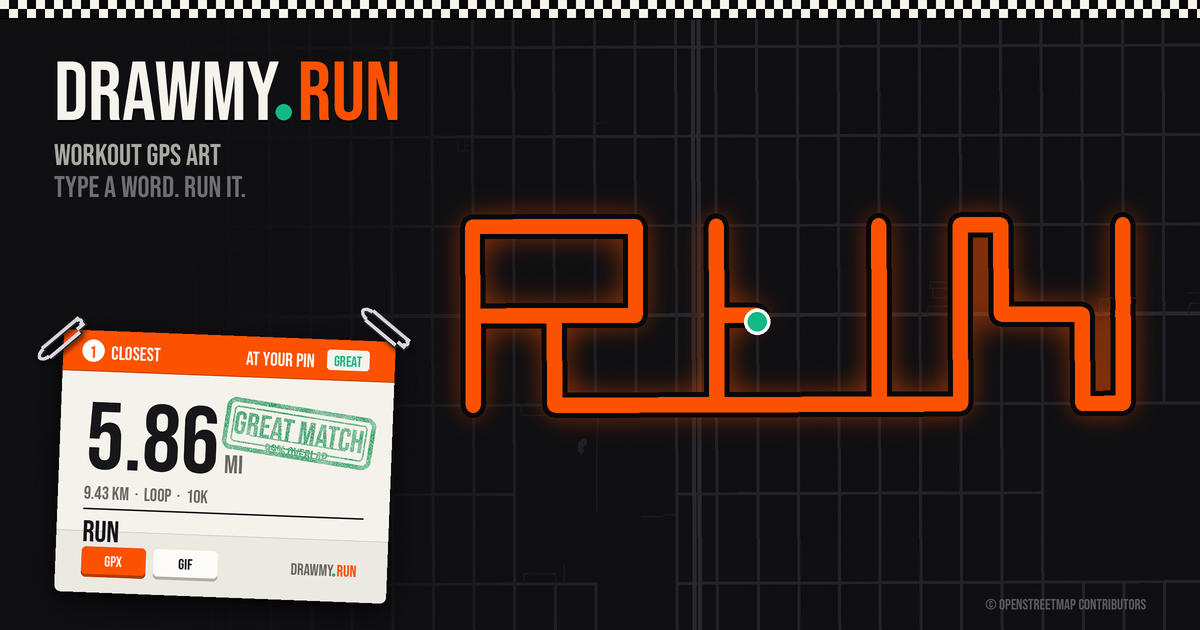
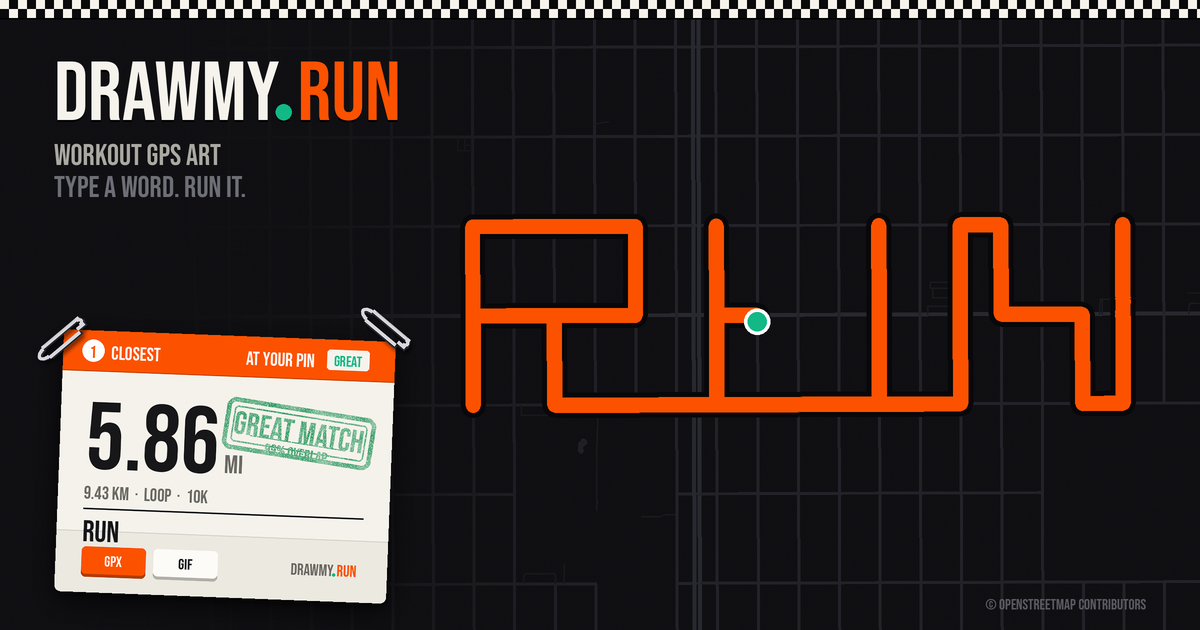
The route lies flat: no shadow under the line on the map, in GIFs or on the card
A soft dark shadow was drawn under the route, offset a little downward and
blurred, on the day map faintly and on the night and satellite maps more
strongly. It showed as dark smudges under the letters. The layer is gone,
along with its scaling for the thicker GIF line and its hand in the fade,
so the exported GIFs, which draw with the same layers, lose it too. The
casing stays: white by day, near black at night and on satellite imagery,
an outline rather than a shadow.

The social card's route sat in a blurred orange glow of the same kind. The
card is regenerated without it, the still and the loop both, so the line
there is the same flat casing and orange as everywhere else.

Claude-Session: https://claude.ai/code/session_01Dmg3qgF2RMqA8VqrgFUq5h

Changed region(s): [[0.37, 0.3016, 0.9558, 0.6937], [0.4625, 0.6635, 0.8017, 0.6937]]

diff --git a/web/src/lib/maplayers.ts b/web/src/lib/maplayers.ts
@@ -64,16 +64,13 @@ export function setDecor(m: maplibregl.Map, visible: boolean) {
 
 /** The route and its markers `k` times as thick as on screen (a GIF is
  *  seen small on a phone). */
-export function scaleRoute(m: maplibregl.Map, k: number, night: boolean) {
+export function scaleRoute(m: maplibregl.Map, k: number) {
   const paint = (id: string, prop: string, v: unknown) => {
     if (m.getLayer(id)) m.setPaintProperty(id, prop, v);
   };
   const layout = (id: string, prop: string, v: unknown) => {
     if (m.getLayer(id)) m.setLayoutProperty(id, prop, v);
   };
-  paint("route-shadow", "line-width", (night ? 12 : 14) * k);
-  paint("route-shadow", "line-blur", (night ? 4 : 6) * k);
-  paint("route-shadow", "line-translate", [0, (night ? 1 : 2) * k]);
   paint("route-casing", "line-width", 9 * k);
   paint("route", "line-width", 5 * k);
   paint("ideal", "line-width", 2.5 * k);
@@ -85,13 +82,12 @@ export function scaleRoute(m: maplibregl.Map, k: number, night: boolean) {
   }
 }
 
-/** The route's opacity, 0 to 1: the line with its casing, shadow and
- *  chevrons, and the finish marker. The start marker stays as it is. */
-export function setRouteOpacity(m: maplibregl.Map, a: number, night: boolean) {
+/** The route's opacity, 0 to 1: the line with its casing and chevrons, and
+ *  the finish marker. The start marker stays as it is. */
+export function setRouteOpacity(m: maplibregl.Map, a: number) {
   const set = (id: string, prop: string, v: number) => {
     if (m.getLayer(id)) m.setPaintProperty(id, prop, v);
   };
-  set("route-shadow", "line-opacity", (night ? 0.35 : 0.16) * a);
   set("route-casing", "line-opacity", 0.9 * a);
   set("route", "line-opacity", a);
   set("route-arrows", "icon-opacity", a);
@@ -99,8 +95,9 @@ export function setRouteOpacity(m: maplibregl.Map, a: number, night: boolean) {
   set("finish", "circle-stroke-opacity", a);
 }
 
-/** Sources and layers for one route: glow or shadow, casing, line, the
- *  target shape, chevrons, start, finish and the draw head. */
+/** Sources and layers for one route: casing, line, the target shape,
+ *  chevrons, start, finish and the draw head. The line lies flat on the
+ *  map, with no shadow under it. */
 export function addRouteLayers(m: maplibregl.Map, night: boolean) {
   // `night` is the dark treatment: a near-black casing under the line, for
   // the night map and for satellite imagery, where a white casing is lost.
@@ -110,16 +107,6 @@ export function addRouteLayers(m: maplibregl.Map, night: boolean) {
     if (img) m.addImage(ARROW, img, { pixelRatio: 2 });
   }
   for (const id of ["route", "ideal", "start", "finish", "head"]) m.addSource(id, { type: "geojson", data: EMPTY });
-  // Under the line: a soft shadow by day; at night the dark casing is enough.
-  m.addLayer({
-    id: "route-shadow",
-    type: "line",
-    source: "route",
-    layout: { "line-cap": "round", "line-join": "round" },
-    paint: night
-      ? { "line-color": "#000000", "line-width": 12, "line-opacity": 0.35, "line-blur": 4, "line-translate": [0, 1] }
-      : { "line-color": "#000000", "line-width": 14, "line-opacity": 0.16, "line-blur": 6, "line-translate": [0, 2] },
-  });
   m.addLayer({
     id: "route-casing",
     type: "line",

diff --git a/web/src/lib/gif.ts b/web/src/lib/gif.ts
@@ -167,7 +167,7 @@ export async function renderGif(job: GifJob): Promise<Blob> {
       }, 30000);
     });
     addRouteLayers(m, job.night);
-    scaleRoute(m, THICK, job.night);
+    scaleRoute(m, THICK);
     const src = (id: string) => m.getSource(id) as maplibregl.GeoJSONSource;
     src("start").setData(job.start ? pointFeature([job.start[1], job.start[0]]) : EMPTY);
     src("finish").setData(job.finish ? pointFeature([job.finish[1], job.finish[0]]) : EMPTY);
@@ -206,12 +206,12 @@ export async function renderGif(job: GifJob): Promise<Blob> {
       setDecor(m, false);
       const sample: number[] = [];
       for (const a of [0.55, 0.25]) {
-        setRouteOpacity(m, a, job.night);
+        setRouteOpacity(m, a);
         await idle(m, 1500);
         const px = snap();
         for (let p = 0; p < px.length; p += 4 * 3) sample.push(px[p], px[p + 1], px[p + 2], px[p + 3]);
       }
-      setRouteOpacity(m, 1, job.night);
+      setRouteOpacity(m, 1);
       await idle(m, 1500);
       const full = snap();
       const both = new Uint8ClampedArray(full.length + sample.length);
@@ -246,12 +246,12 @@ export async function renderGif(job: GifJob): Promise<Blob> {
       // beat before the drawing begins.
       for (let i = 1; i <= FADE_FRAMES; i++) {
         const t = i / FADE_FRAMES;
-        setRouteOpacity(m, 1 - t * t * (3 - 2 * t), job.night);
+        setRouteOpacity(m, 1 - t * t * (3 - 2 * t));
         await idle(m, 1500);
         frame(snap(), i === FADE_FRAMES ? 300 : 60);
         tick();
       }
-      setRouteOpacity(m, 1, job.night);
+      setRouteOpacity(m, 1);
       setDecor(m, false);
       let k = 1;
       for (let i = 0; i <= n; i++) {
